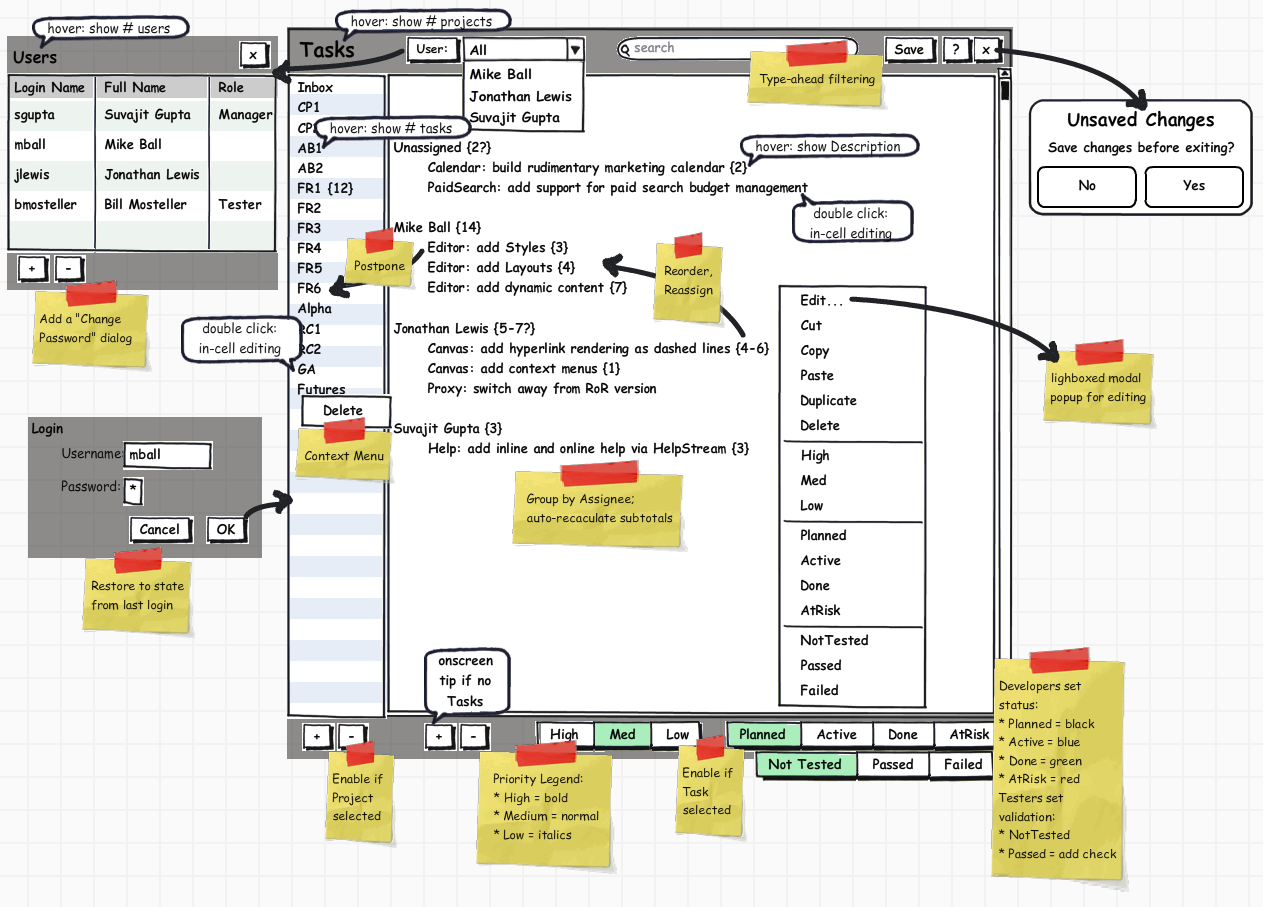
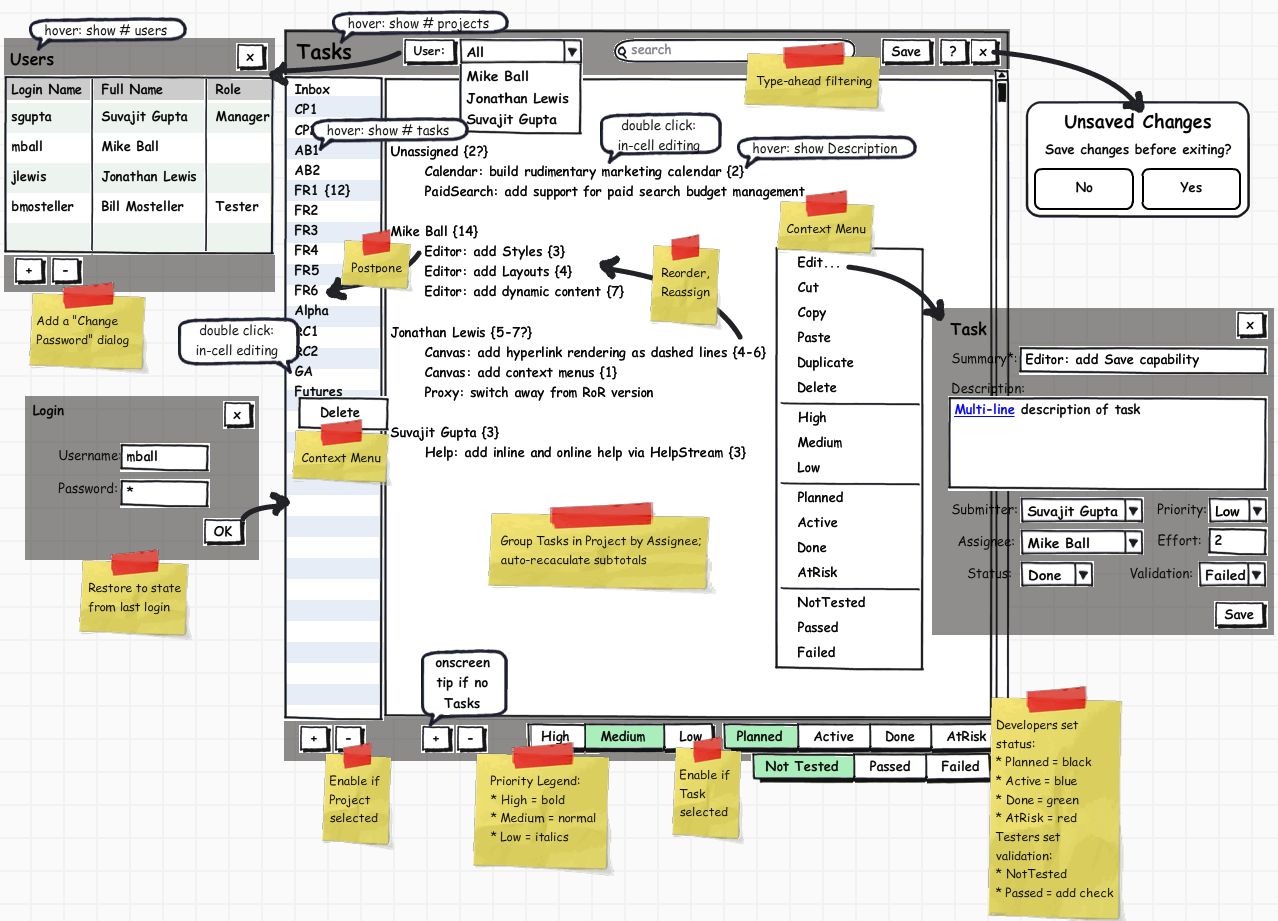
added TXT file export

Changed region(s): [[0.0, 0.0, 1.0, 1.0]]

diff --git a/apps/tasks/fixtures/task.js b/apps/tasks/fixtures/task.js
@@ -17,9 +17,10 @@ Tasks.Task.FIXTURES = [
 	{ id: 1,
 	name: "Summary for task one",
 	type: Tasks.consts.TASK_TYPE_OTHER,
-	description: "Description for task 1" ,
+	description: "First line of description for task 1\nSecond line of description\nThird line of description" ,
 	priority: Tasks.consts.TASK_PRIORITY_HIGH,
 	status: Tasks.consts.TASK_STATUS_DONE,
+	validation: Tasks.consts.TASK_VALIDATION_PASSED,
 	effort: "1",
 	submitter: 1
 	},
@@ -27,7 +28,7 @@ Tasks.Task.FIXTURES = [
 	{ id: 2,
 	name: "Summary for task two",
 	description: "Description for task 2" ,
-	priority: Tasks.consts.TASK_PRIORITY_HIGH,
+	priority: Tasks.consts.TASK_PRIORITY_MEDIUM,
 	status: Tasks.consts.TASK_STATUS_ACTIVE,
 	effort: "0.25",
 	submitter: 1,
@@ -38,7 +39,7 @@ Tasks.Task.FIXTURES = [
 	name: "Summary for task three",
 	description: "Description for task 3" ,
 	type: Tasks.consts.TASK_TYPE_OTHER,
-	priority: Tasks.consts.TASK_PRIORITY_HIGH,
+	priority: Tasks.consts.TASK_PRIORITY_LOW,
 	status: Tasks.consts.TASK_STATUS_AT_RISK,
 	submitter: 1,
 	assignee: 2
@@ -48,7 +49,7 @@ Tasks.Task.FIXTURES = [
 	name: "Summary for task four",
 	description: "Description for task 4" ,
 	type: Tasks.consts.TASK_TYPE_BUG,
-	priority: Tasks.consts.TASK_PRIORITY_HIGH,
+	priority: Tasks.consts.TASK_PRIORITY_LOW,
 	status: Tasks.consts.TASK_STATUS_ACTIVE,
 	effort: "3-5",
 	submitter: 4,
@@ -78,7 +79,7 @@ Tasks.Task.FIXTURES = [
 	{ id: 7,
 	name: "Summary for task seven",
 	description: "Description for task 7" ,
-	priority: Tasks.consts.TASK_PRIORITY_HIGH,
+	priority: Tasks.consts.TASK_PRIORITY_MEDIUM,
 	status: Tasks.consts.TASK_STATUS_PLANNED,
 	effort: "2",
 	submitter: 2,
@@ -89,7 +90,7 @@ Tasks.Task.FIXTURES = [
 	name: "Summary for task eight",
 	type: Tasks.consts.TASK_TYPE_BUG,
 	description: "Description for task 8" ,
-	priority: Tasks.consts.TASK_PRIORITY_HIGH,
+	priority: Tasks.consts.TASK_PRIORITY_MEDIUM,
 	status: Tasks.consts.TASK_STATUS_PLANNED,
 	effort: "5",
 	submitter: 2,
@@ -110,7 +111,8 @@ Tasks.Task.FIXTURES = [
 	description: "Description for task 10" ,
 	type: Tasks.consts.TASK_TYPE_BUG,
 	priority: Tasks.consts.TASK_PRIORITY_HIGH,
-	status: Tasks.consts.TASK_VALIDATION_PASSED,
+	status: Tasks.consts.TASK_STATUS_DONE,
+	validation: Tasks.consts.TASK_VALIDATION_NOT_TESTED,
 	effort: "1",
 	submitter: 4,
 	assignee: 2
@@ -157,7 +159,8 @@ Tasks.Task.FIXTURES = [
 	name: "Summary for task fifteen",
 	description: "A very long paragraph providing excruciating details for task 15.  It goes on and on until the reader is bored to tears and causes a buffer overflow in the viewer." ,
 	priority: Tasks.consts.TASK_PRIORITY_MEDIUM,
-	status: Tasks.consts.TASK_STATUS_PLANNED,
+	status: Tasks.consts.TASK_STATUS_FAILED,
+	validation: Tasks.consts.TASK_VALIDATION_FAILED,
 	submitter: 1,
 	assignee: 2
 	}

diff --git a/apps/tasks/controllers/projects.js b/apps/tasks/controllers/projects.js
@@ -29,8 +29,42 @@ Tasks.projectsController = SC.ArrayController.create(
       SC.Object.create({ displayName: 'Futures', treeItemChildren: [], treeItemIsExpanded: NO})
       ], treeItemIsExpanded: YES });
     
-  }.property('[]').cacheable()
+  }.property('[]').cacheable(),
   
-  
+  exportData: function() {
+		var val, task, user, data = "# Tasks data export at " + new Date().format('MMM dd, yyyy hh:mm:ssa') + '\n\n';
+		
+    this.forEach(function(rec){
+					var tasks = rec.get('tasks');
+					var len = tasks.get('length');
+				 	data += rec.get('displayName') + ': #' + len + ' tasks\n';
+					for (var i = 0; i < len; i++) {
+						task = tasks.objectAt(i);
+						switch(task.get('priority')) {
+							case Tasks.consts.TASK_PRIORITY_HIGH: val = '^'; break;
+							case Tasks.consts.TASK_PRIORITY_MEDIUM: val = '-'; break;
+							case Tasks.consts.TASK_PRIORITY_LOW: val = 'v'; break;
+						}
+						data += val + ' ';
+						data += task.get('displayName');
+						user = task.get('submitter');
+						if (user) data += ' <' + user.get('name') + '>';
+						user = task.get('assignee');
+						if (user) data += ' [' + user.get('name') + ']';
+						val = task.get('type');
+						if(val != Tasks.consts.TASK_TYPE_OTHER)	data += ' $' + val;
+						val = task.get('status');
+						if(val != Tasks.consts.TASK_STATUS_PLANNED)	data += ' @' + val;
+						val = task.get('validation');
+						if(val != Tasks.consts.TASK_VALIDATION_NOT_TESTED)	data += ' %' + val;
+						val = task.get('description');
+						if(val) data += '\n' + val;
+						data += '\n';
+					}
+					data += '\n';
+      }, this);
+		
+		console.log(data);
+	}
   
 });

diff --git a/apps/tasks/english.lproj/main_page.js b/apps/tasks/english.lproj/main_page.js
@@ -83,18 +83,25 @@ Tasks.mainPage = SC.Page.design({
     
     bottomView: SC.View.design(SC.Border, {
       layout: { bottom: 0, left: 0, right: 0, height: 41 },
-      childViews: 'addButton delButton'.w(),
+      childViews: 'exportButton addButton delButton'.w(),
       borderStyle: SC.BORDER_TOP,
       
-      addButton: SC.ButtonView.design({
+      exportButton: SC.ButtonView.design({
         layout: { centerY: 0, height: 21, left: 8, width: 80 },
+        title:  "Export",
+				target: 'Tasks.projectsController',
+				action: 'exportData'
+      }),
+
+      addButton: SC.ButtonView.design({
+        layout: { centerY: 0, height: 21, left: 250, width: 80 },
         title:  "Add",
 				target: 'Tasks.tasksController',
 				action: 'addTask'
       }),
 
       delButton: SC.ButtonView.design({
-        layout: { centerY: 0, height: 21, left: 120, width: 80 },
+        layout: { centerY: 0, height: 21, left: 350, width: 80 },
         title:  "Delete",
 				isEnabled: 'Tasks.tasksController.hasSelection',
 				target: 'Tasks.tasksController',

diff --git a/apps/tasks/models/task.js b/apps/tasks/models/task.js
@@ -55,7 +55,7 @@ Tasks.Task = Tasks.Record.extend({
    */
   type: SC.Record.attr(String, {
     isRequired: YES,
-    defaultValue: Tasks.consts.TASK_TYPE_FEATURE,
+    defaultValue: Tasks.consts.TASK_TYPE_OTHER,
     allowed: [
       Tasks.consts.TASK_TYPE_FEATURE,
       Tasks.consts.TASK_TYPE_BUG,

diff --git a/apps/tasks/english.lproj/body.css b/apps/tasks/english.lproj/body.css
@@ -1,0 +1,7 @@
+.task-icon-feature {
+  background: static_url('images/feature.jpg');
+}
+
+.task-icon-bug {
+  background: static_url('images/bug.jpg');
+}
